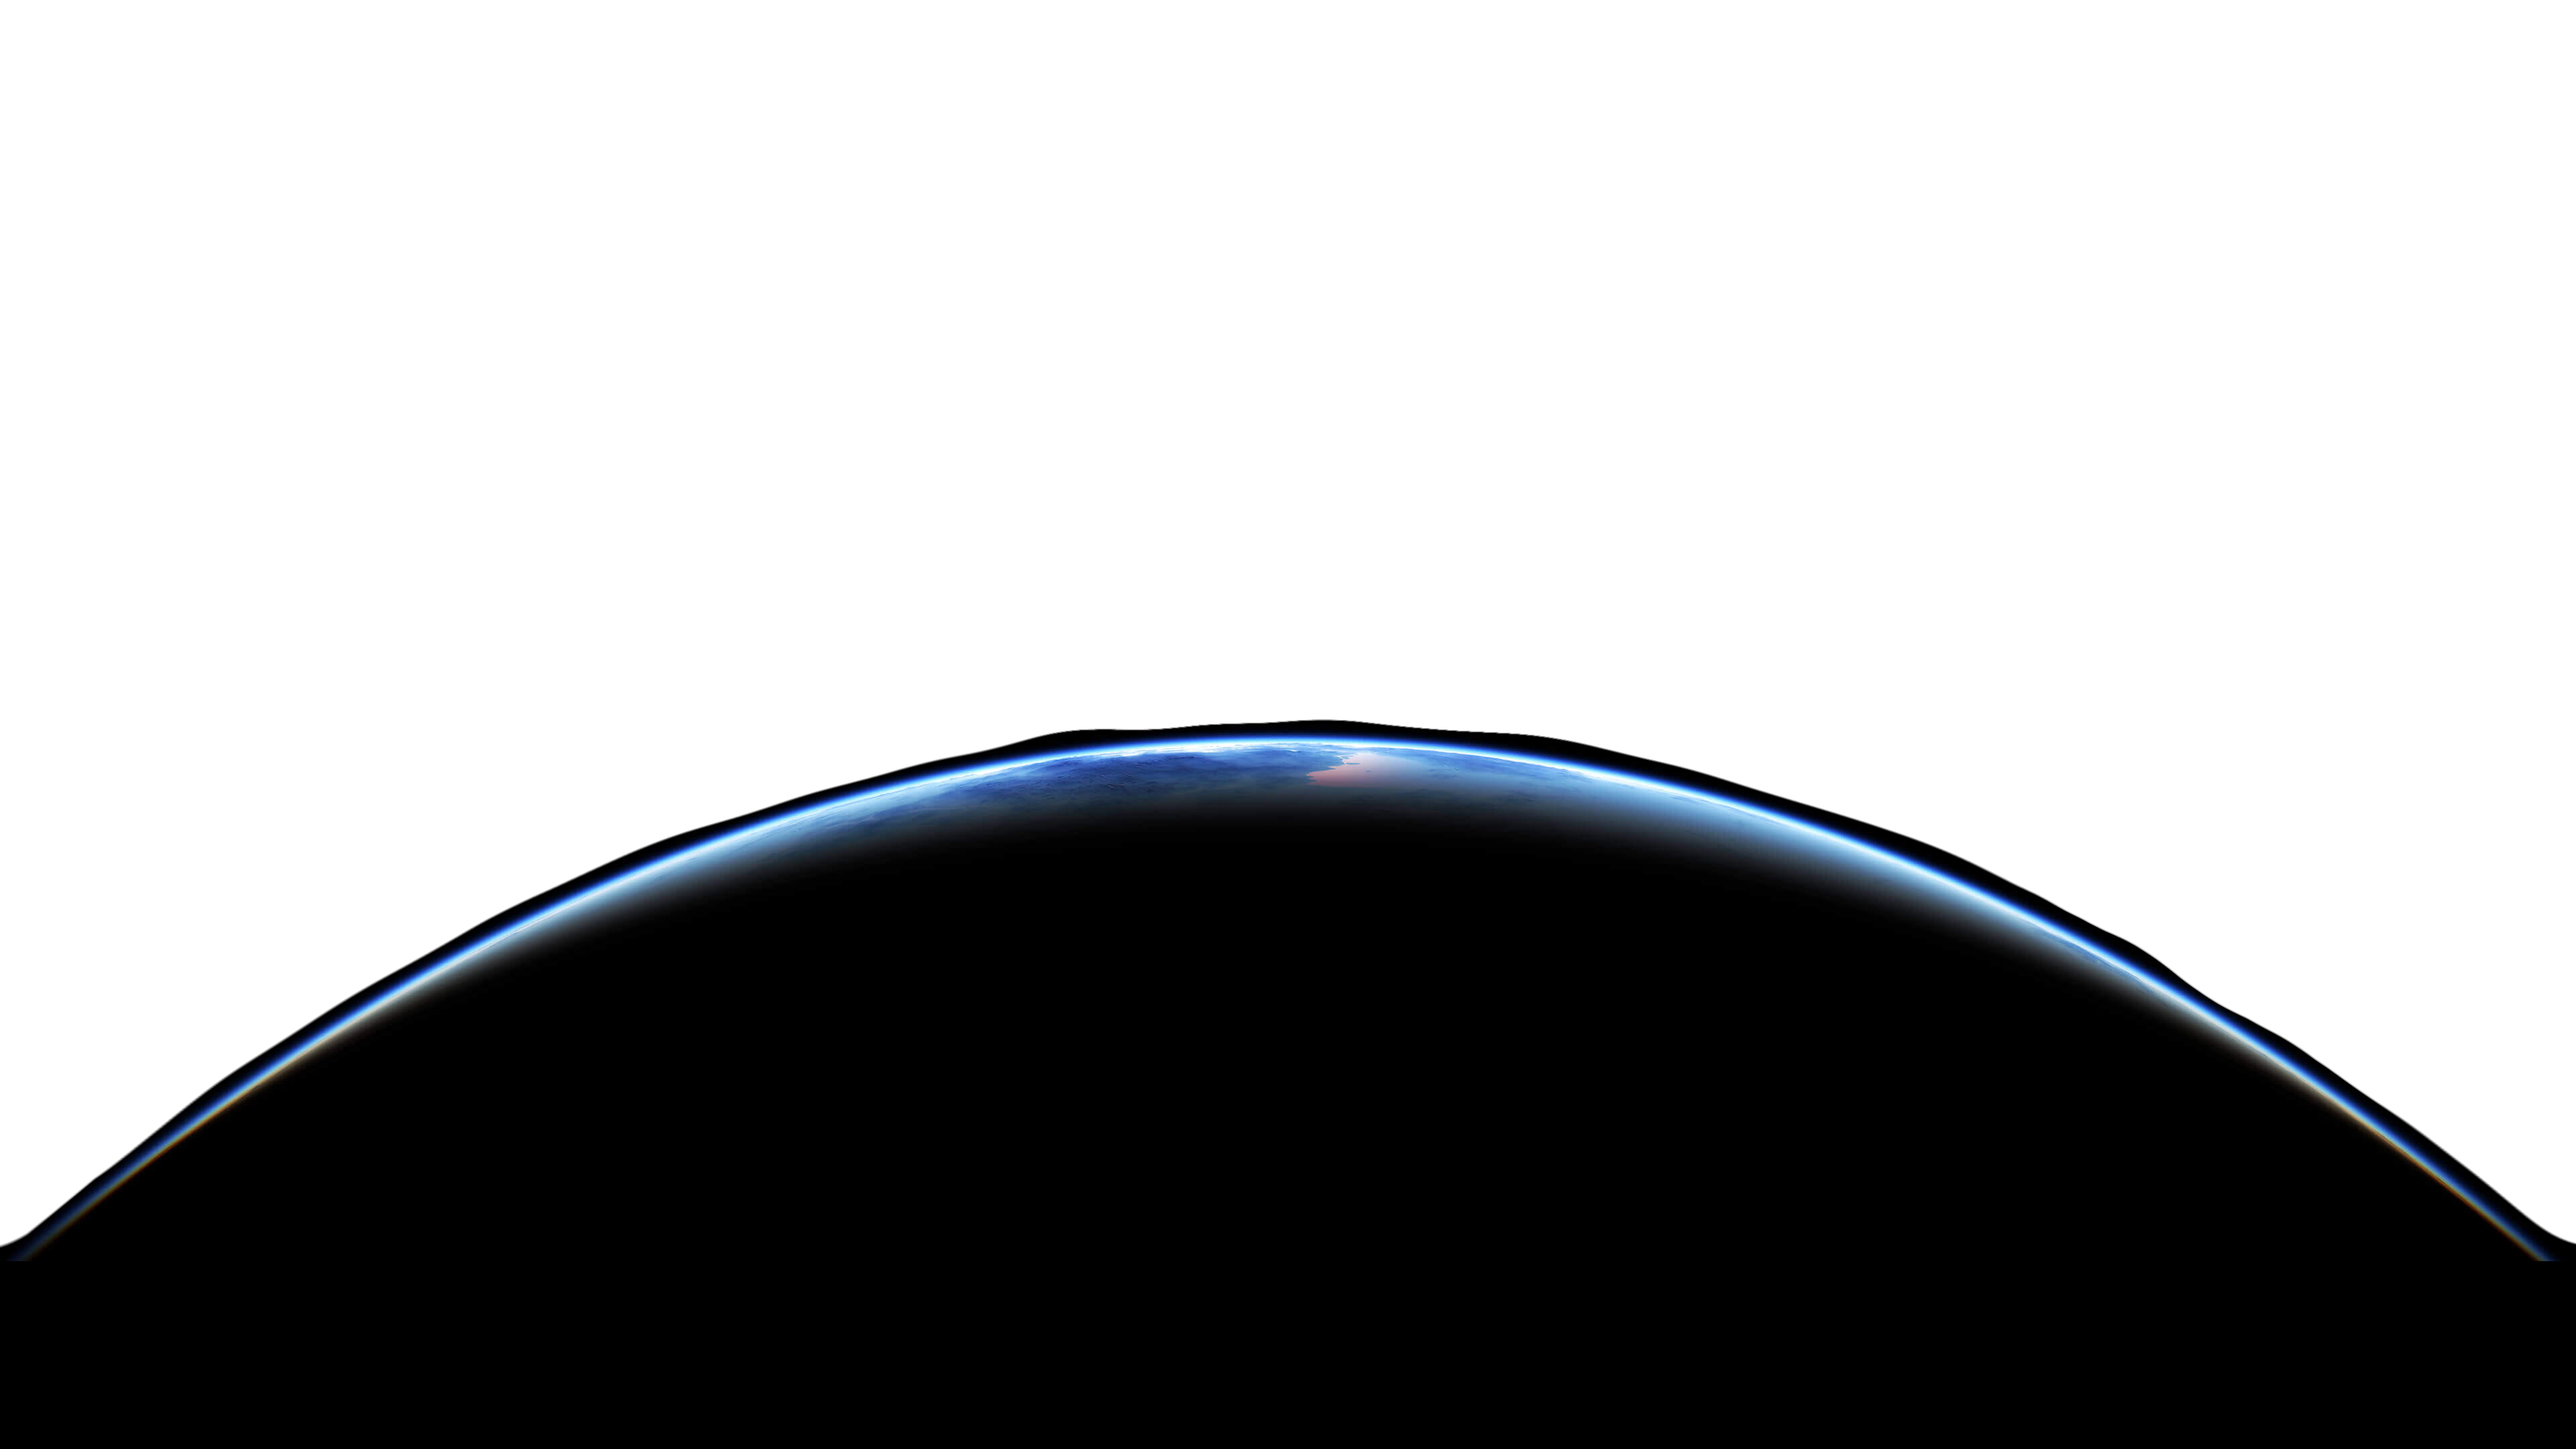
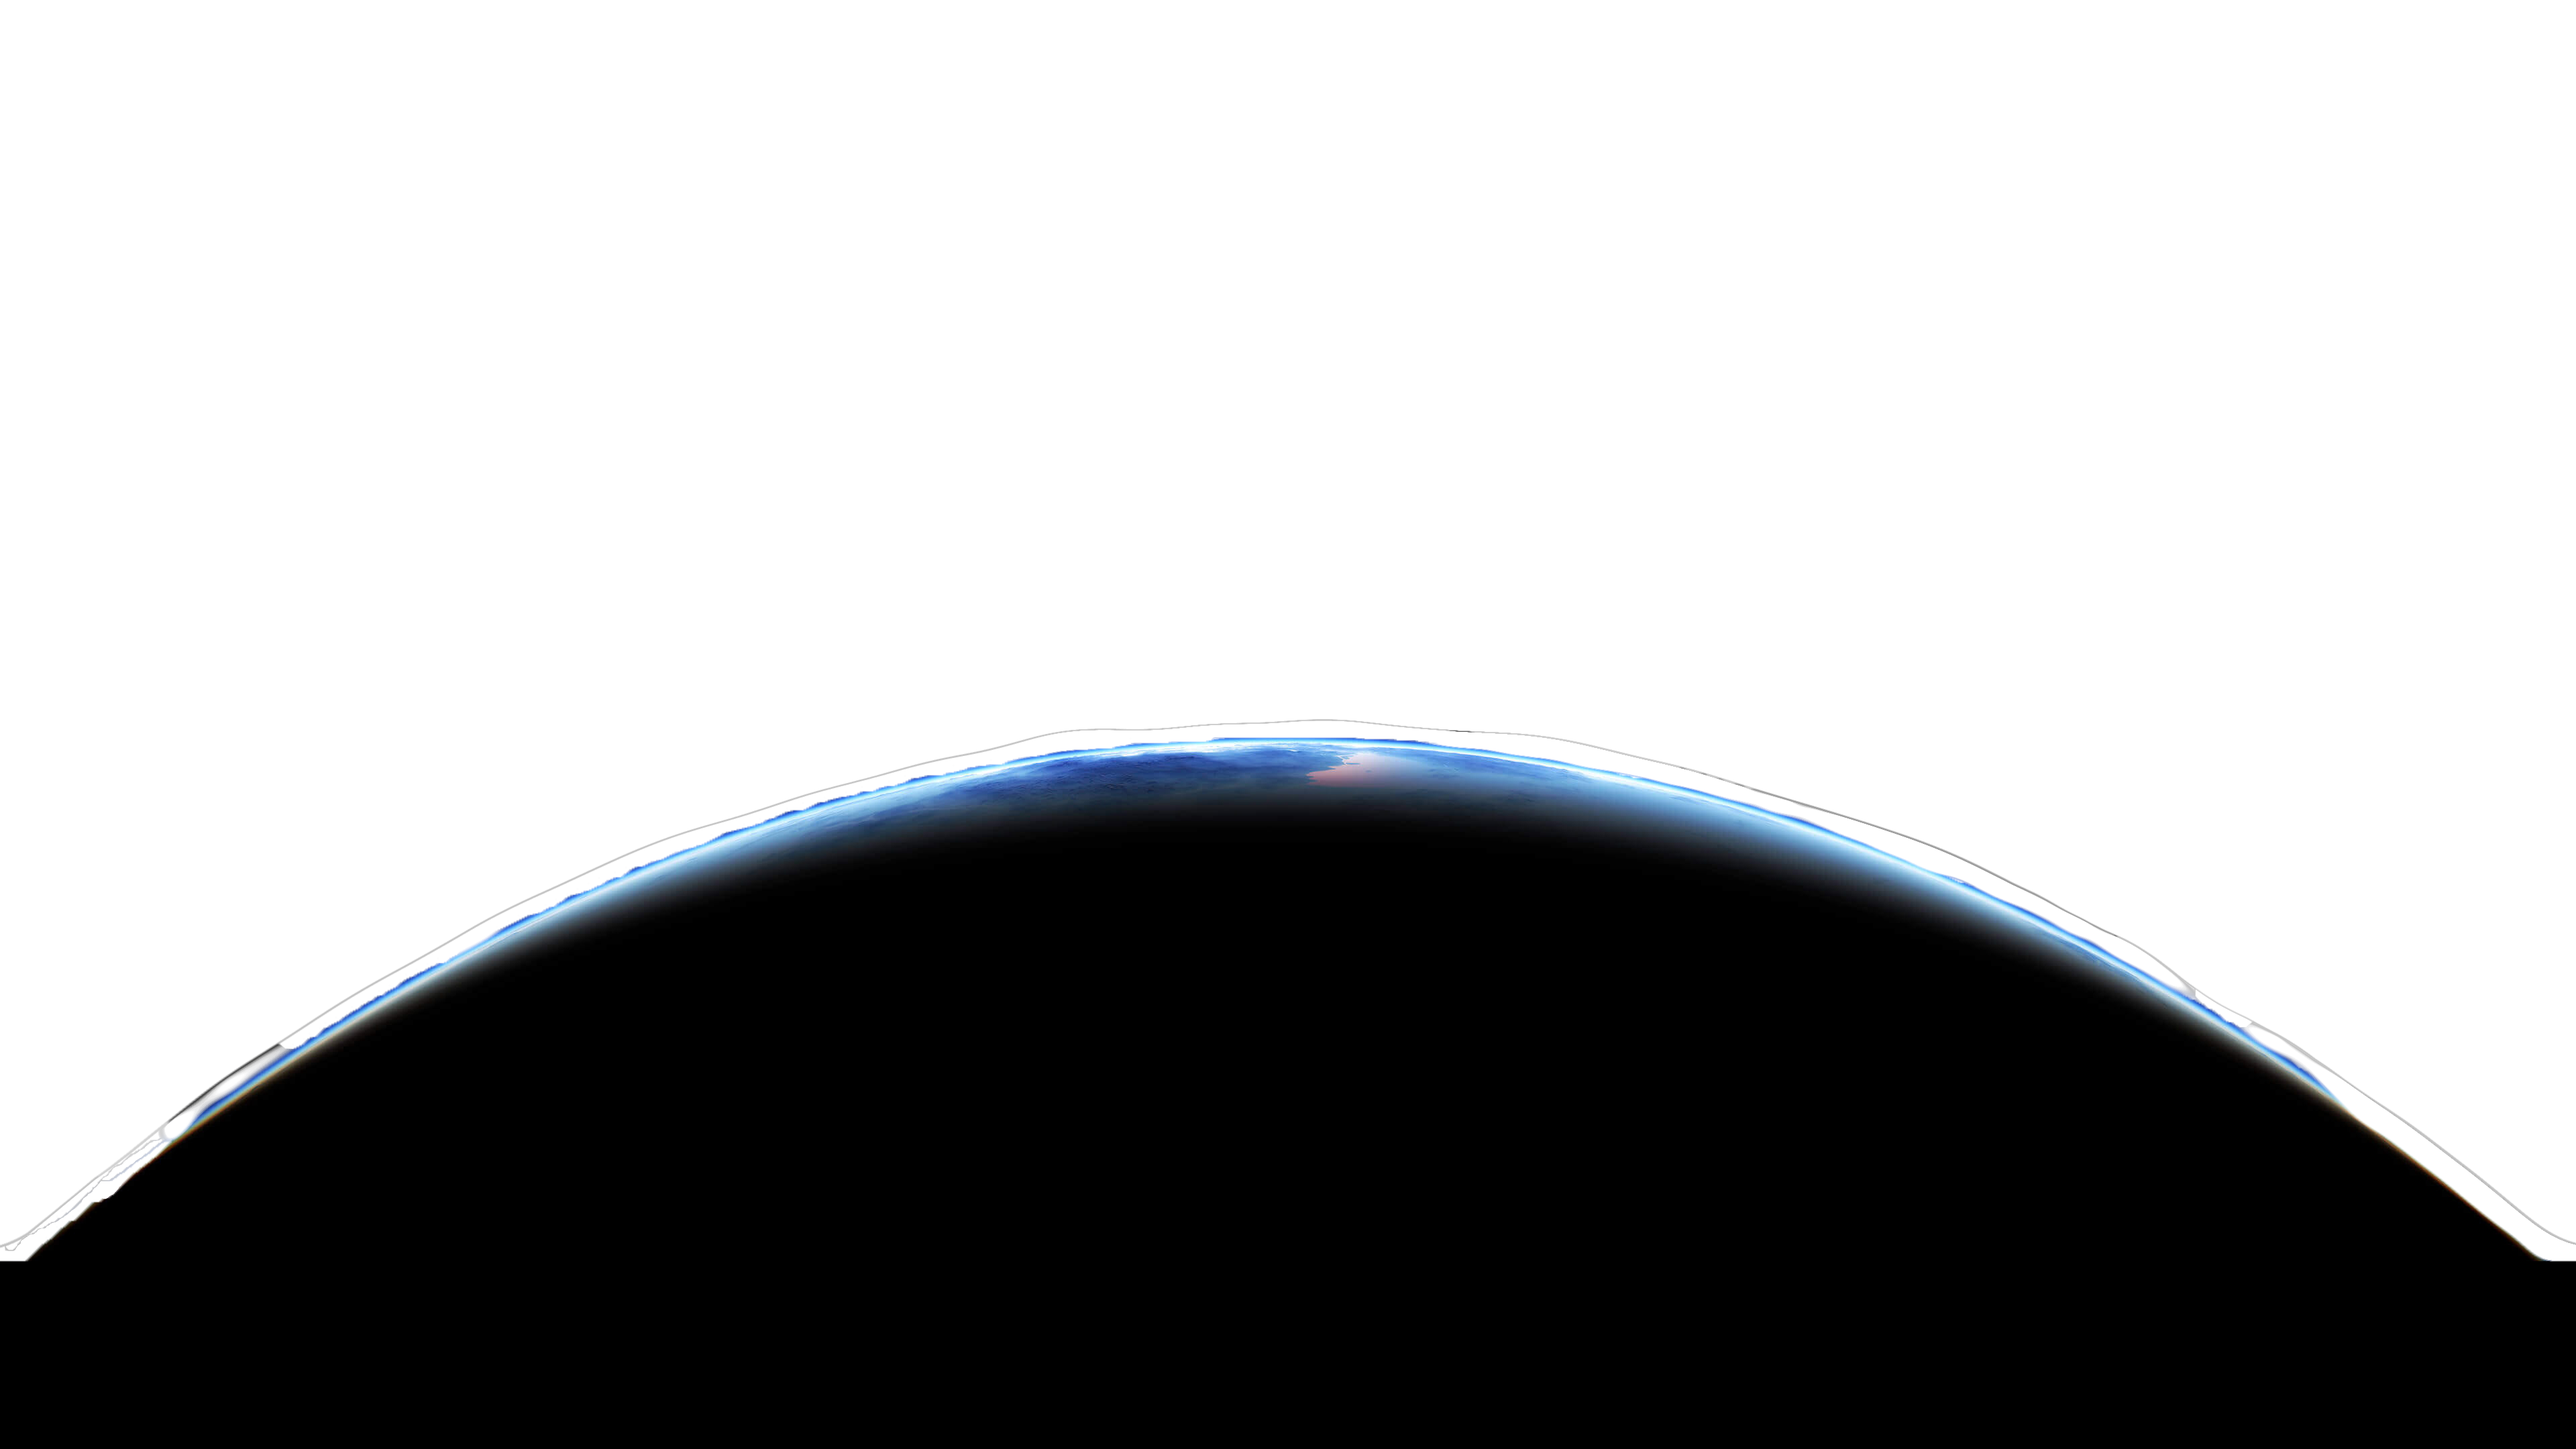
3rd major update

diff --git a/index.html b/index.html
@@ -143,9 +143,23 @@
       />
     </section>
     <section class="bg__img">
-      <!-- <img class="body__bg-img" src="./public/bg.jpg" alt=""> -->
-      <!-- <div class="bg-gradient"></div> -->
+      <img class="body__bg-img" src="./public/bg.jpg" alt="">
+      <div class="bg-gradient"></div>
     </section>
+    <small class="head-1">Click the Nav Bar icons to navigate different sections</small>
+    <small class="head-2">Happy Scrolling :)</small>
+    <div class="click-scroll">
+      <a href="#about"><div class="scroll-down"></div></a>
+      <svg xmlns="http://www.w3.org/2000/svg" viewBox="0 0 24 24" fill="currentColor" class="a1">
+        <path fill-rule="evenodd" d="M12.53 16.28a.75.75 0 0 1-1.06 0l-7.5-7.5a.75.75 0 0 1 1.06-1.06L12 14.69l6.97-6.97a.75.75 0 1 1 1.06 1.06l-7.5 7.5Z" clip-rule="evenodd" />
+      </svg>      
+      <svg xmlns="http://www.w3.org/2000/svg" viewBox="0 0 24 24" fill="currentColor" class="a2">
+        <path fill-rule="evenodd" d="M12.53 16.28a.75.75 0 0 1-1.06 0l-7.5-7.5a.75.75 0 0 1 1.06-1.06L12 14.69l6.97-6.97a.75.75 0 1 1 1.06 1.06l-7.5 7.5Z" clip-rule="evenodd" />
+      </svg>      
+      <svg xmlns="http://www.w3.org/2000/svg" viewBox="0 0 24 24" fill="currentColor" class="a3">
+        <path fill-rule="evenodd" d="M12.53 16.28a.75.75 0 0 1-1.06 0l-7.5-7.5a.75.75 0 0 1 1.06-1.06L12 14.69l6.97-6.97a.75.75 0 1 1 1.06 1.06l-7.5 7.5Z" clip-rule="evenodd" />
+      </svg>      
+    </div>
     <section id="about" class="about container section">
       <h2 class="about__title">About Me</h2>
       <div class="about__recent">
@@ -227,7 +241,7 @@
       </div>
       <img
         class="about__bg-img"
-        src="./public/HD-wallpaper-iphone-earth-earth-iphone.jpg"
+        src="./public/HD-wallpaper-iphone-earth-earth-iphone.png"
         alt="Earth"
       />
       <div class="about__pp">
@@ -439,7 +453,7 @@
       <p class="skills__click-text">Click Here</p>
 
       <img
-        src="./public/blue-spherical-black-hole-nay2pkrej7i6am5p.jpg"
+        src="./public/1.png"
         alt="Black hole"
         class="skills__img"
       />

diff --git a/styles/components/scroll.css b/styles/components/scroll.css
@@ -1,0 +1,55 @@
+.click-scroll{
+    position: absolute;
+    top: 790px;
+    left: 725px;
+    display: flex;
+    flex-direction: column;
+    align-items: center;
+}
+
+.scroll-down{
+    border: 2px solid red;
+    border-radius: 50%;
+    width: 3rem;
+    height: 3rem;
+    animation: scroll 3s linear infinite;
+}
+
+.a1{
+    color: transparent;
+    width: 5rem;
+    margin-bottom: -50px;
+    animation: glow 6s linear infinite;
+}
+
+.a2{
+    color: transparent;
+    width: 5rem;
+    margin-bottom: -50px;
+    animation: glow 6s linear infinite 2s;
+}
+
+.a3{
+    color: transparent;
+    width: 5rem;
+    margin-bottom: -50px;
+    animation: glow 6s linear infinite 4s;
+}
+
+@keyframes scroll {
+    0%, 100%{
+        transform: translateY(0);
+    }
+    50%{
+        transform: translateY(20px);
+    }
+}
+
+@keyframes glow {
+    0%, 100%{
+        color: transparent;
+    }
+    50%{
+        color: red;
+    }
+}

diff --git a/styles/components/contact.css b/styles/components/contact.css
@@ -26,7 +26,7 @@
 }
 
 .contact__form-input{
-    background-color: rgba(226, 232, 240, .15);
+    background-color: transparent;
     border: 1px solid var(--clr-blue);
     padding: 1rem;
     resize: none;
@@ -36,7 +36,7 @@
 
 .contact__form-input:hover{
     background-color: transparent;
-    backdrop-filter: blur(10px);
+    backdrop-filter: blur(5px);
 }
 
 .contact__form-input::placeholder{
@@ -107,13 +107,12 @@
     gap: .5rem;
     border: 1px solid var(--clr-blue);
     border-radius: 10px;
-    background-color: rgba(226, 232, 240, .15);
     transition: all .3s linear;
 }
 
 .contact__clients:hover{
     background-color: transparent;
-    backdrop-filter: blur(10px);
+    backdrop-filter: blur(5px);
 }
 
 .contact__clients-title{

diff --git a/styles/components/skills.css b/styles/components/skills.css
@@ -19,6 +19,7 @@
 .skills__img{
     position: absolute;
     top: 124rem;
+    left: 510px;
     width: 30rem;
     z-index: -1;
     /* border: 1px solid red; */
@@ -156,11 +157,11 @@
 .skills__left.click, .skills__right.click{
     border: 1px solid #0094ff;
     background-color: #0094ff;
-    backdrop-filter: blur(10px);
     opacity: 100%;
     transition: all 0.3s linear;
     &:hover{
         background: transparent;
+        backdrop-filter: blur(5px);
     }
 }
 

diff --git a/styles/components/projects.css b/styles/components/projects.css
@@ -33,6 +33,11 @@
     padding: 1.5rem;
     position: relative;
     box-shadow: 0 0 1.5rem var(--clr-blue);
+    transition: all .3s linear;
+}
+
+.projects__list:hover{
+    backdrop-filter: blur(5px);
 }
 
 .projects__img{
@@ -66,9 +71,3 @@
     margin: .5rem 0;
 }
 
-/* .projects__bg-container{
-    position: absolute;
-    z-index: -1;
-    width: 50%;
-    background: radial-gradient(circle, transparent 20%, #000000 100%);
-} */

diff --git a/styles/components/biodata.css b/styles/components/biodata.css
@@ -41,12 +41,11 @@
     border: 1px solid var(--clr-blue);
     border-bottom-left-radius: 20px;
     border-bottom-right-radius: 20px;
-    background-color: rgba(226, 232, 240, .15);
+    box-shadow: 0 0 1.5rem var(--clr-blue);
     transition: all 0.3s linear;
 }
 
 .biodata__sub-container:hover{
-    background-color: transparent;
     backdrop-filter: blur(10px);
 }
 

diff --git a/src/main.js b/src/main.js
@@ -5,6 +5,7 @@ import '../styles/components/header.css';
 import '../styles/components/bg.css';
 import '../styles/components/stars-header.css';
 import '../styles/components/nav.css';
+import '../styles/components/scroll.css';
 import '../styles/components/about.css';
 import '../styles/components/skills.css';
 import '../styles/components/projects.css';

diff --git a/styles/components/about.css b/styles/components/about.css
@@ -93,7 +93,7 @@
     align-items: center;
     gap: .2rem;
     background: transparent;
-    background: radial-gradient(circle, transparent 20%, #000000 100%);
+    background: radial-gradient(circle, transparent 10%, #000000 100%);
     /* transition: width 10s; */
 }
 

diff --git a/styles/components/header.css b/styles/components/header.css
@@ -66,3 +66,15 @@
     -webkit-text-stroke-width: .3px;
     
 }
+
+.head-1{
+    position: absolute;
+    left: 610px;
+    top: 730px;
+}
+
+.head-2{
+    position: absolute;
+    left: 720px;
+    top: 760px;
+}

diff --git a/styles/components/footer.css b/styles/components/footer.css
@@ -28,7 +28,7 @@
 
 .footer__info{
     color: red;
-    font-weight: 500;
+    font-weight: 800;
 }
 
 .footer__copyright{

diff --git a/styles/components/bg.css b/styles/components/bg.css
@@ -3,5 +3,6 @@
     aspect-ratio: 1/1;
     top: 0;
     left: 0;
+    opacity: .8;
     z-index: -2;
 }
